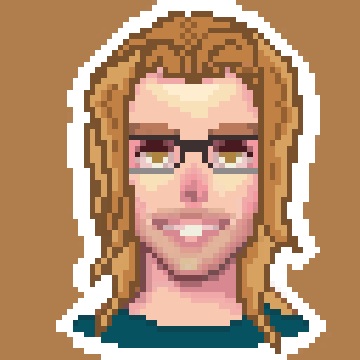
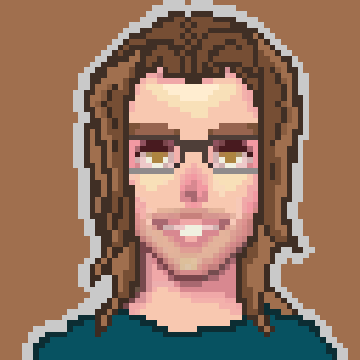
icone

diff --git a/pages/pagina-inicial.js b/pages/pagina-inicial.js
@@ -40,17 +40,20 @@ const PaginaInicial = () => {
             </header>
 
             <main id="inicio">
-                {/* <div style={{width: '160px',
-                            height: '160px',
-                            border: '2px solid #c9c9c9',
+                <div style={{width: '200px',
+                            height: '200px',
+                            borderTop: '2px solid #c9c9c99a',
+                            borderBottom: '2px solid #c9c9c99a',
                             borderRadius: '50%',
+                            overflow: 'hidden',
                             backgroundImage: "url('/img/icones/icone-720x720.png')",
                             backgroundSize: 'contain',
+                            opacity: '0.9',
                             margin: '0',
-                            marginTop: '10vh'}}>
+                            marginTop: '20vh'}}>
 
-                </div> */}
-                <h1 className="title" style={{marginTop: '45vh'}}>
+                </div>
+                <h1 className="title" style={{marginTop: '40px'}}>
                     JEFFERSON <Link href="#conhecer"><a onClick={ () => AlterarConteudo(conteudo[0]) }>BARROS</a></Link>
                 </h1>
 

diff --git a/pages/_app.js b/pages/_app.js
@@ -23,7 +23,7 @@ function App({ Component, pageProps }) {
         <link href="https://fonts.googleapis.com/css2?family=Poppins:ital@0;1&display=swap" rel="stylesheet"/>
         <link rel="stylesheet" href="https://cdnjs.cloudflare.com/ajax/libs/font-awesome/4.7.0/css/font-awesome.min.css"></link>
 
-        {/* <link rel="icon" href="/img/icones/icone-64x64.png"/> */}
+        <link rel="icon" href="/img/icones/icone-32x32.png"/>
         <link rel="preload" href="/img/minha-foto2.png" as="image"/>
         <link rel="preload" href="/img/folha.png" as="image"/>
         <link rel="preload" href="/img/engrenagem.png" as="image"/>
